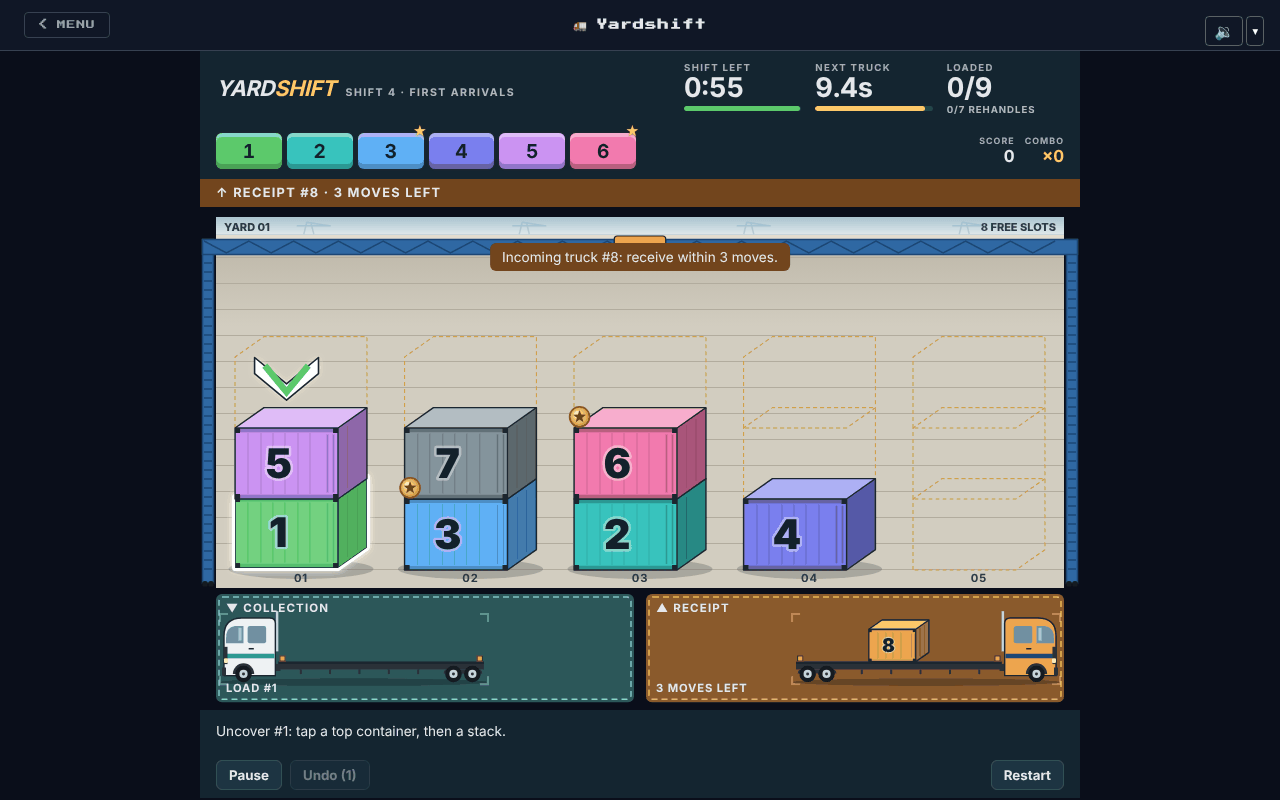
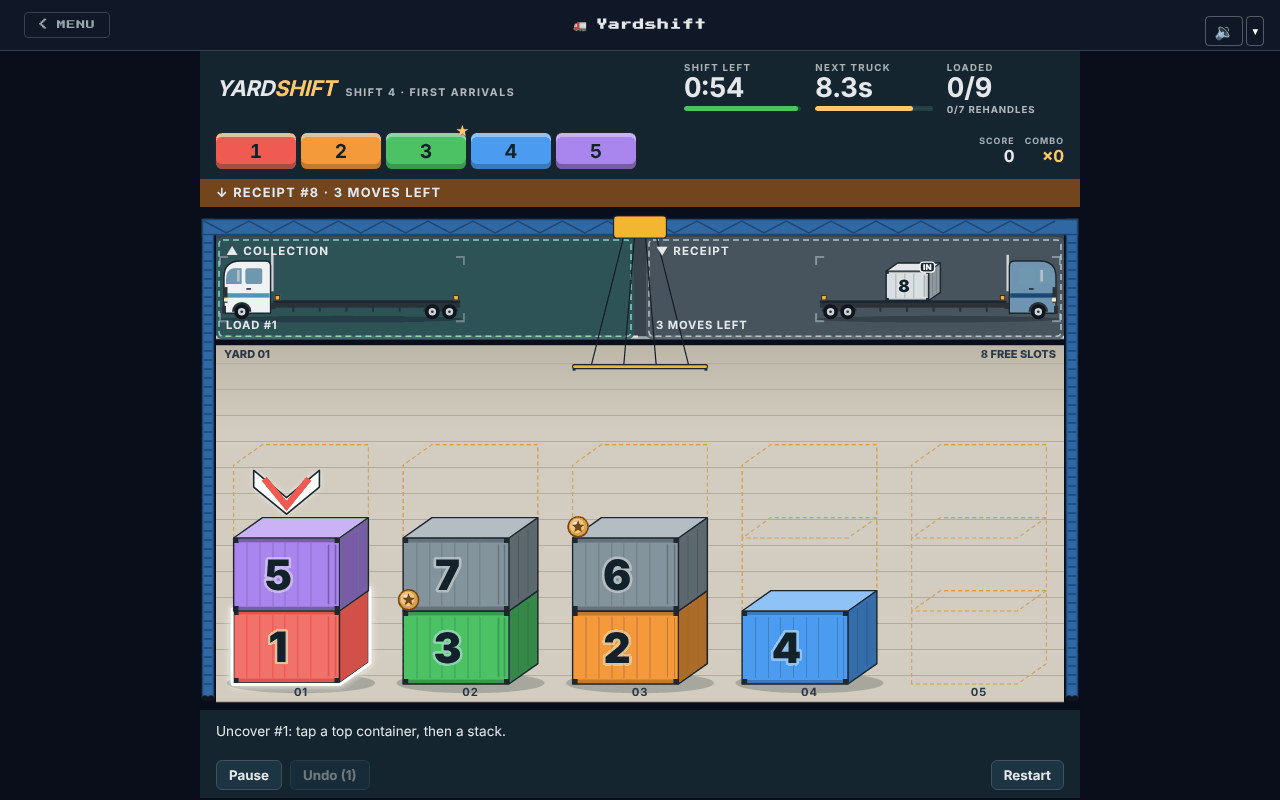
Yardshift: re-capture docs/prototypes/2d and the cover for owner round 5; sim guide layout and palette
Claude-Session: https://claude.ai/code/session_0155BNjwPfcnFQSyZNLHGLyJ

diff --git a/src/sims/yardshift/yardshift-AGENTS.md b/src/sims/yardshift/yardshift-AGENTS.md
@@ -47,53 +47,68 @@ and crane frames, and a backing store scaled by `devicePixelRatio` (capped at 3)
   `docs/prototypes/2d/`): chunky boxes sized from the column width first (front 0.74 of the column, end face 0.17,
   top rise 0.12), as tall as `ASPECT_MIN` 1.3:1 allows (`boxHFor`); a short room narrows a box rather than flattening
   it past `ASPECT_MAX` 1.45. `numberSize(box)` is `NUMBER_SHARE` (58 %) of the box height. `chevronAt(geo, layout,
-  stack, height)` places the NEXT chevron just above the stack top, inside its column, under the beam, with
-  `CHEVRON_BOUNCE` (3 px) room each way. The stacks need full capacity plus one box of crane headroom (a carried box, `carryY`,
-  clears a full stack; at rest the spreader hangs there). The gantry beam (`beamHFor`) sits at the top of the
-  concrete, just under the sky band, with the legs running down the full yard; the trolley rides the beam and its
-  cables lower the spreader, so cable length follows the move. The sky band is at least `SKY_MIN` and at most
-  `SKY_SHARE` (40 %) of the yard; the beam sits a quarter box over the crane headroom (art pass 3: full stacks fill the
-  concrete, spare height is quiet sky, not empty concrete), and never sinks into the headroom. `yardFit(colW, capacity, maxH)` gives the box height and the yard that fits it
-  exactly. Each bay's truck (`truckIn(bay, geo, facing)`): tractor cab at the end it faces (the receipt truck faces
+  stack, height)` places the NEXT chevron just above the stack top, inside its column, under the road strip, with
+  `CHEVRON_BOUNCE` (3 px) room each way. Owner round 5 (trucks above the yard): the road strip (`layout.road`, drawn
+  as asphalt with kerbs and dashed lane lines) runs across the top of the surface with both truck bays at its foot,
+  right over the stacks; there is no sky band. The gantry beam (`beamHFor`) spans the top, over the road, with the
+  legs running down beside the bays and the full yard; the trolley rides the beam and its cables hang down across
+  the road to the spreader. The yard has a `CAPTION_PX` (16 px) row at its top for "YARD 01" and "n FREE SLOTS",
+  then the crane headroom: the carry height `carryY` sits just under the road (caption and spreader room), always at
+  least one box over a full stack; at rest the spreader hangs there. A collect lifts the box from its stack up to
+  the collection truck's trailer, a receive lowers the receipt cargo from its truck down into the yard (the same
+  `cranePhase` legs; the destination is simply above the carry height). `yardFit(colW, capacity, maxH)` gives the
+  box height and the yard that fits it exactly. Each bay's truck (`truckIn(bay, geo, facing)`): tractor cab at the end it faces (the receipt truck faces
   right with its cab under `arrowBox`, the collection truck faces left), a heavy skeletal trailer, three axles, cargo
   a yard box scaled up to `MAX_CARGO_SCALE` 1.6, the cab up to 28 % of the bay width, the whole truck filling most of the bay width and centred
   vertically between the bay title and status rows. `boxAt(geo, layout, stack, tier, lift)` is a container's box;
   `boxBounds` its whole drawn area. `modules/yardGeometry.test.ts` proves, for every level and five surfaces, that
-  every slot (the top one lifted too) lies inside its own column hit region and under the beam, the box aspect stays
+  every slot (the top one lifted too) lies inside its own column hit region and under the road, the box aspect stays
   1.3 to 1.45 (under 1.35 on a phone), the number 55 to 60 % of the box, the chevron inside its column clear of the
-  stack top and the beam at every stack height, the sky band at most 40 % of the yard and the spare concrete over full
-  stacks at most a quarter box unless the sky is at its cap, the carried box clears a full stack
-  at least 8 px below the beam, the beam top within 3 px of the sky band bottom, the legs touch no column, and each truck (both facings) lies inside its
+  stack top and the road at every stack height, the beam above both bays and the road (which holds both bays) above
+  the yard, the carried box clears a full stack and hangs 8 to 25 px under the road, each truck's cargo slot sits
+  above the carry height, under the beam and between the legs (the crane carries a box up to it), the legs touch no
+  column, and each truck (both facings) lies inside its
   bay, fills most of its width, is vertically centred, has its cab ahead of the trailer and its wheels on the road,
   with the cargo on the trailer and the arrow over the receipt cab, clear of the cargo.
-- `layoutFor(stackCount, viewport, capacity)` (`present` passes the capacity): the bays take `BAY_SHARE` (22 %, at
-  least 84 px) of the surface and the yard exactly what `yardFit` needs. Height left on a tall phone goes first to the
-  bays (up to `MAX_BAY_SHARE`, 30 %; the trucks scale with them), then to the yard's concrete headroom. The canvas
-  always fills the whole play surface: no dark gaps (`playtestFixes.test.ts`). Hit regions still come from the layout only. Without the capacity the bays take their old share.
+- `layoutFor(stackCount, viewport, capacity)` (`present` passes the capacity), top to bottom (owner round 5): 2 % margin
+  and `BEAM_ROOM_PX` (20) for the beam, the road strip with both bays side by side at its foot, a 6 px gap, then the
+  yard down to the bottom margin. The bays take `BAY_SHARE` (22 %, at least 84 px) of the surface and the yard exactly
+  what `yardFit` needs. Height left on a tall phone goes first to the bays (up to `MAX_BAY_SHARE`, 24 %; the trucks
+  scale with them), then to more road above the bays (where the sky band was), so the trucks always sit right over
+  the stacks. The canvas always fills the whole play surface: no dark gaps (`playtestFixes.test.ts`). Hit regions
+  still come from the layout only and move with the bays; the road itself is paint, never a target. Without the
+  capacity the bays sit right under the beam and the yard fills the rest. The arrival announcement pill sits at the
+  top of the yard, clear of the bays.
 - `modules/yardEffects.ts` (pure, `yardEffects.test.ts`): every render-only effect as a function of time.
   `urgencyStyle(container, current, reducedMotion)`: the next container glows from the start of its turn (art pass 3:
   a thick white outline with a breathing outer glow, static under reduced motion), bobs `nextBob` (`BOB_PX` 2 px,
   1 Hz, vertical paint offset only) and a NEXT chevron bounces over its stack (`chevronBounce`); both are 0 under
   reduced motion; once the next-truck clock is low it vibrates (`vibrateX`: horizontal only,
-  1 to 2 px at `VIBRATE_HZ` 27 Hz, never a rotation) with a pulsing red outline; in the last 9 s of the shift every
-  container vibrates with rising amplitude; under reduced motion nothing moves and the `urgent` flag gives a static
-  red outline. Effects in flight (`Fx`, durations `FX_MS`): `land` (squash about the bottom centre plus a dust puff,
+  1 to 2 px at `VIBRATE_HZ` 27 Hz, never a rotation) with the urgency outline (owner round 5: a thick white outline
+  with a red one flashing over it, never a plain red outline, since red is sequence colour #1); in the last 9 s of the
+  shift every container vibrates with rising amplitude; under reduced motion nothing moves and the `urgent` flag gives
+  a static white outline with a thin red inner line. Effects in flight (`Fx`, durations `FX_MS`): `land` (squash about the bottom centre plus a dust puff,
   after each crane move onto a stack), `collect` (the collection truck bounces, drives off left with the box and
-  comes back empty, clipped to its bay), `bonus` (gold flash over the collection bay and a coin and star `burst`),
+  comes back empty: it drives along the road strip out past its left edge and returns into its bay from the right,
+  clipped to the road up to the bay's right edge so it never shows over the receipt bay), `bonus` (gold flash over the collection bay and a coin and star `burst`),
   `bonus-miss` (the gold fades to the box's own colour with a poof), `reject` (a refused move shakes the tapped
   container sideways in red, `rejectX`). `sparkles` and `shineAt` drive the gold shine.
-- `composables/useYardCanvas.ts` only paints: a quiet backdrop (sky, a hazy horizon, faint distant STS crane
-  silhouettes at 28 % alpha, the quay edge; no ship), floor, dashed slot outlines up to capacity, "YARD 01" and "n
-  FREE SLOT(S)" captions, the two bays (dashed border, painted stall corner marks so an empty bay still reads as one,
-  teal collection, orange receipt, red at deadline 0), illustrated trucks (rounded cab roof, windscreen and side
+- `composables/useYardCanvas.ts` only paints: the road strip (asphalt from the beam down, kerbs, a dashed lane line
+  along the trucks' wheels and one down any road above the bays), floor, dashed slot outlines up to capacity,
+  "YARD 01" and "n FREE SLOT(S)" captions along the top of the concrete, the two bays painted over the road (dashed
+  border, painted stall corner marks so an empty bay still reads as one, teal collection, slate receipt, red at
+  deadline 0; labels "▲ COLLECTION" and "▼ RECEIPT"), illustrated trucks (rounded cab roof, windscreen and side
   window, livery stripe, grille, headlight, bumper, exhaust stack, mudguards, tyres with light hubs, skeletal
   trailer with a heavy beam, cross members and yellow twist-lock posts, soft road shadow; the collected box rides
-  the trailer while the truck drives off; white cab facing left for collection, orange cab facing right for
-  receipt, none in the receipt bay with no truck), containers (art pass 3, the v1 look: a flat front in its colour, one light top
+  the trailer while the truck drives off; white cab facing left for collection, steel blue cab (`cab-steel`) facing
+  right for receipt, none in the receipt bay with no truck; the receipt cargo is a steel/white container
+  (`receipt-cargo`) with a bold dark "IN" tag astride its top right edge, so it never reads as a sequence colour), containers (art pass 3, the v1 look: a flat front in its colour, one light top
   face, a darker end face, a few soft ribs, two subtle door bars, thin rails, corner castings, a big bold number with
   a light halo; the next box is slightly brighter. A bonus box keeps its sequence colour with a static star badge on
   its top-left corner, inside its column, drawn in a second pass so it never covers a number. Only the active bonus
-  (`bonusActive`: next, window open) is amber metallic gold (`gold-body`; the sequence colours hold no yellow since owner round 4)
+  (`bonusActive`: next, window open) is bright metallic gold (owner round 5, never brown: a light `gold-body` #ffd84a
+  face with a white `gold-shine` highlight band across its upper third, a warm `gold-deep` #f0b428 foot and end face;
+  `palette.test.ts` keeps every gold face at relative luminance 0.45 or more; the sequence colours hold no yellow)
   with its sequence colour along the bottom rail, a gold halo, a shine sweep every 1.6 s, up to three sparkles at the
   box ends, a bouncing badge and the countdown ring; "H" tile for `heavy`), the NEXT chevron (white, outlined,
   striped in the next box's colour; hidden while the crane works that stack), ghost drop boxes on `destinations`, the blue gantry and the yellow trolley with
@@ -120,7 +135,8 @@ and crane frames, and a backing store scaled by `devicePixelRatio` (capped at 3)
   not in the yard, or a receipt is mandatory). Hit regions stay layout-only (tested calm, urgent, reduced and selected).
 - Screenshots: `docs/prototypes/2d/` (art pass 3, phone 390x844 at 2x: level 3 after one rehandle, the owner's
   `owner-2d-v3` state; level 2 bonus window open on #3; level 4 mandatory receipt; tutorial start; tutorial with #4's bonus window open
-  and its coaching line; desktop 1280x800 level 4). Re-captured in owner round 4 for the hue-walk colours.
+  and its coaching line; desktop 1280x800 level 4). Re-captured in owner round 5 (five rainbow colours, bright gold,
+  trucks above the yard), 8-bit palette PNGs.
 - Active bonus shine (owner round 4): the sweep is clipped inside the front face's outline, and the next box's white
   rim and glow are clipped to outside the box silhouette (`clipOutside`), so neither draws a pale band over the dark
   end face or past the box's right edge.
@@ -178,8 +194,9 @@ keeps the behaviours (lift and rim, ghosts, slot outlines, stack labels, arrow b
 - `UiState.selection` is a stack index, `'receipt'` (the waiting truck is selected) or null. `input`: a receipt bay tap
   selects the waiting truck (again, or with no truck, clears); truck then stack sends `receive(to)`; truck then
   collection only clears; at deadline 0 a stack tap with nothing selected does nothing (the hint names the truck).
-- `present` adds `receiptCargo` (the waiting container, drawn on the receipt truck bed in arrival orange),
-  `incoming` (`status` none, optional or mandatory; band text "↑ RECEIPT #8 · 3 MOVES LEFT" or "· MANDATORY"; bay
+- `present` adds `receiptCargo` (the waiting container, drawn on the receipt truck bed as a steel "IN" box),
+  `incoming` (`status` none, optional or mandatory; band text "↓ RECEIPT #8 · 3 MOVES LEFT" or "· MANDATORY", the
+  arrow pointing down at the receipt bay under the band; bay
   status "NO TRUCK", "n MOVE(S) LEFT", "MANDATORY NOW"), and `dimYard` and `arrow` (`'receipt'`), both set only at
   deadline 0 while the truck is not selected. With the truck selected, `destinations` are the stacks `receive` accepts.
 - `Yardshift.vue` draws the incoming band (fixed 26 px height, always present, so an arrival never moves the layout;
@@ -203,9 +220,9 @@ keeps the behaviours (lift and rim, ghosts, slot outlines, stack labels, arrow b
   leave it alone. Collecting with `bonusMs > 0` adds +250 and +5 s and a gold (`bonus-awarded`); reaching 0 emits
   `bonus-missed` once. Undo (#386) keeps the smaller of now and the snapshot's `bonusMs` (no farming).
   Stars never read score or golds.
-- Presentation: `ContainerView.slot` (0..5 or null), `colour` (`SEQUENCE_COLOURS` or `GREY`), `bonus` (medallion:
+- Presentation: `ContainerView.slot` (0..4 or null), `colour` (`SEQUENCE_COLOURS` or `GREY`), `bonus` (medallion:
   a later bonus id, or the current one while its window is open, so it shows buried or grey and vanishes on a miss),
-  `border` (selection only, never the current container). `view.queue` is the six HUD positions (empty slot `–`
+  `border` (selection only, never the current container). `view.queue` is the five HUD positions (empty slot `–`
   past the last container), `view.bonus` the open window (`{ id, text }`), `hud.score` and `hud.combo` (`×n`).
 - Renderers: the scene paints each face texture in the container colour with the number and, on bonus containers,
   a gold star medallion; `components/ui/YardQueue.vue` shows queue, bonus countdown, score and combo; the store's
@@ -276,9 +293,9 @@ keeps the behaviours (lift and rim, ghosts, slot outlines, stack labels, arrow b
   in the receipt bay; plus singular and plural copy ("1 MOVE LEFT", "1 rehandle", "1 star bonus").
 - Scene: the gantry beam runs along the slanted row of stacks (first to last column, legs just outside) and moves
   across it with the trolley; the trolley rest point resets when the surface size or stack count changes.
-- Cover: `assets/cover.png` (art pass 3, re-cut in owner round 4 for the hue walk) is a 640x360 crop of the phone level 3 capture (390x844 at 2x,
-  `loadLevel(3)` then `{ type: 'rehandle', from: 2, to: 4 }`): the 16:9 band from the beam down to the stack
-  numbers, 8-bit palette, about 20 KB.
+- Cover: `assets/cover.png` (re-cut in owner round 5) is a 640x360 cut of the phone level 3 capture (390x844 at 2x,
+  `loadLevel(3)` then the fixture's first move): the band from the foot of the road (both bays) down to the stack
+  numbers, centred on the page background to 16:9, 8-bit palette, about 30 KB.
 
 ## Audio cues (#388)
 
@@ -423,9 +440,13 @@ records it. The bonus does not change rehandles, so the solver fixtures are unch
 ## Colours
 
 `styles/palette.css` (loaded by `Yardshift.vue`, scoped to `.yardshift`) holds the sim's own palette as `--ys-*`
-properties: the six sequence colours (a hue walk so the order reads at a glance, owner round 4: #1 green `#5cc96b`,
-#2 teal `#38c3bd`, #3 blue `#5fb0f5`, #4 indigo `#7a7fee`, #5 purple `#cb93f2`, #6 pink `#f27aae`; yellow, amber
-gold, orange and red stay free for bonus, receipt and alerts; each holds the dark number ink at 4.7:1 or more), grey, gold, arrival orange, red and the panel shades. Background, text and muted
+properties: the five sequence colours in rainbow order, so the sequence reads like a spectrum (owner round 5: #1 red
+`#ef5b52`, #2 orange `#f59a3a`, #3 green `#4cc265`, #4 blue `#4b9cf0`, #5 purple `#a985ee`; every container after
+#5 is grey `#84949c` and the queue shows five chips; yellow stays out so gold is only ever the active bonus; each
+holds the dark number ink at 4.5:1 or more, `presentationScore.test.ts`). Because red and orange are sequence colours,
+urgency is a white outline flashing red, the receipt cargo is steel with an "IN" tag, the receipt bay slate and the
+receipt truck cab steel blue; the deadline arrow stays red. The HUD's shift bar uses `--ys-seq-2` (green). Also grey,
+gold, red and the panel shades. Background, text and muted
 text use the shared tokens of `src/assets/main.css`. Components use those or `--ys-*`, never hex
 (`scripts/check-no-hex-colours.mjs` in verify); `modules/palette.test.ts` keeps `--ys-seq-*` and `--ys-grey` equal to `SEQUENCE_COLOURS` and `GREY`. The
 canvas yard keeps its colours in `modules/yardPalette.ts`, each mirrored as `--ys-yard-*` in the palette and kept
